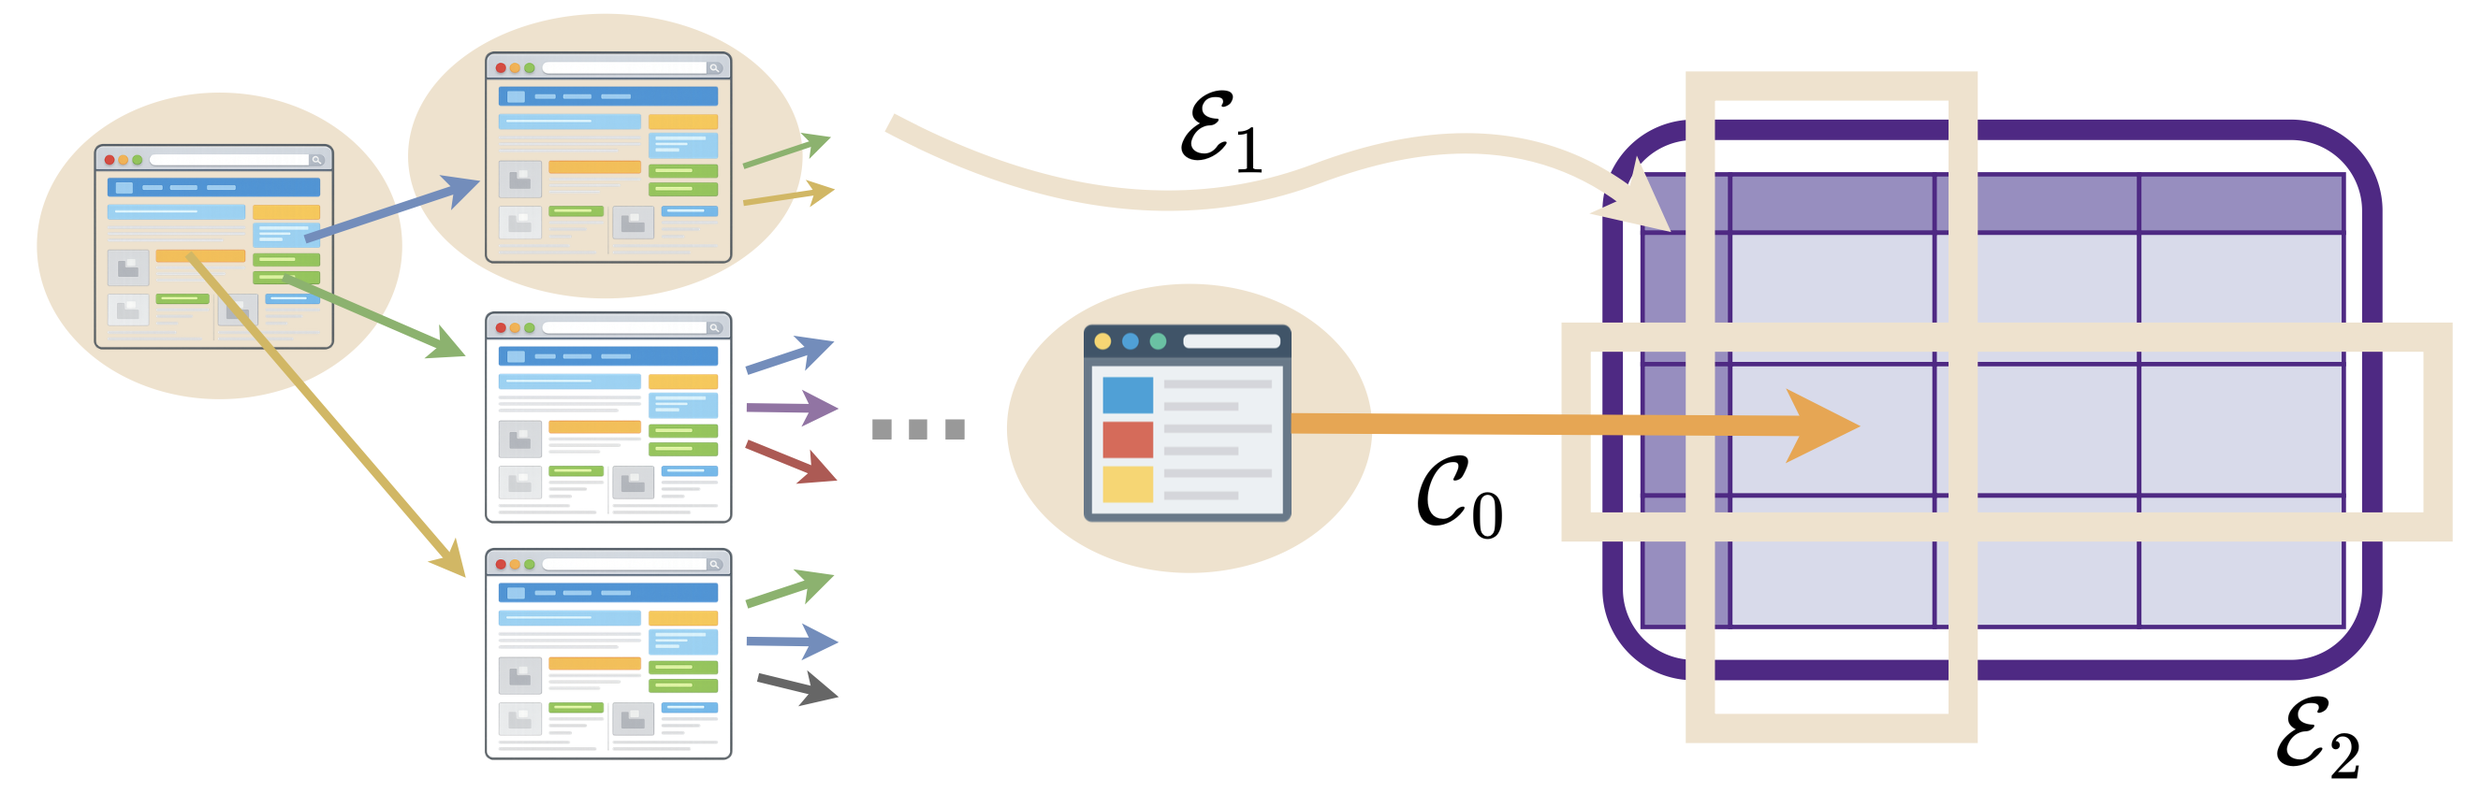
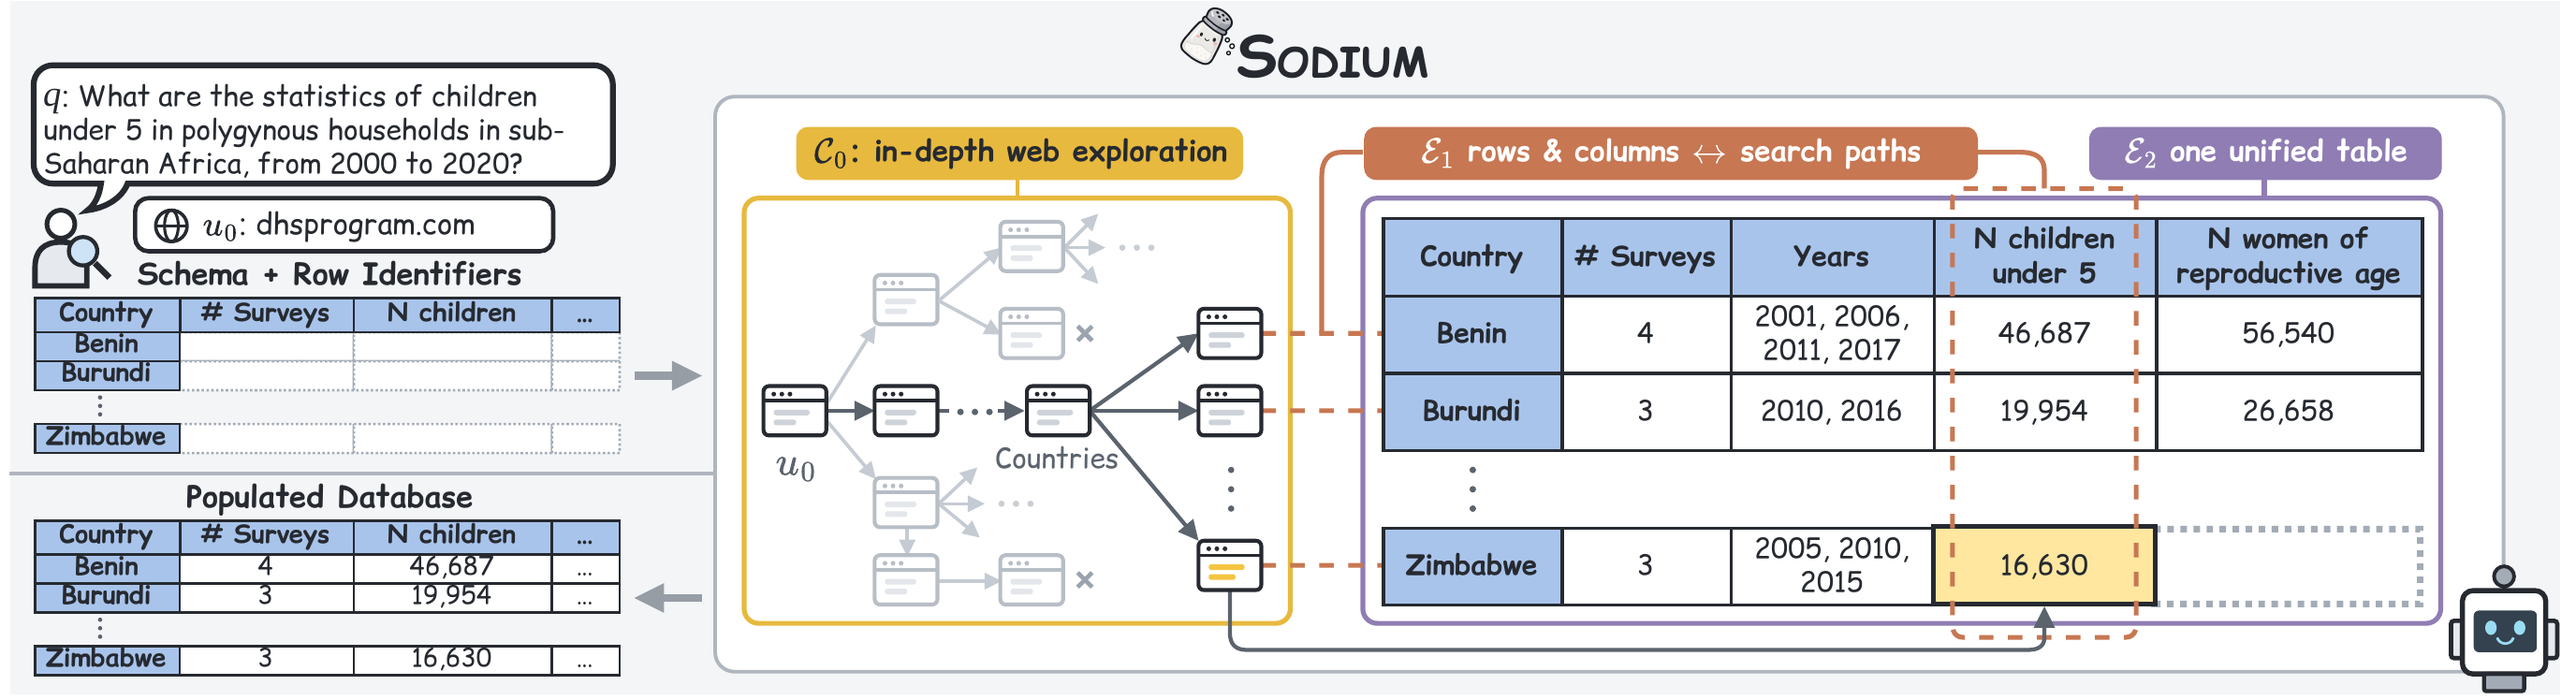
update assets

diff --git a/sodium-agent/web_explorer/page_explorer.py b/sodium-agent/web_explorer/page_explorer.py
@@ -4,13 +4,25 @@ from .online_file_explorer import inspect_file
 from .page_type import decide_sd, is_document_url
 
 
-def inspect_page(url, log_file, query, primary_key, primary_key_val, col, given_info, client):
+def inspect_page(url, static, log_file, query, primary_key, primary_key_val, col, given_info, client):
+    """Explore a single page.
+
+    ``static`` is the already-known page type when we are revisiting a cached
+    source (None means: classify it now with decide_sd).  Returns the page type
+    alongside the result so callers can cache it.
+    """
     if is_document_url(url):
-        return inspect_file(url, query, primary_key, primary_key_val, col, client, given_info, log_file), [], True, None, {}, True
-    url_type = decide_sd(url, query, primary_key, primary_key_val, col, given_info, client, log_file)
-    if url_type:
+        given_info = inspect_file(url, query, primary_key, primary_key_val, col, client, given_info, log_file)
+        return given_info, [], True, url, {}, True
+
+    if static is None:
+        # decide_sd returns (is_static, base_url); a bare tuple is always truthy,
+        # so it has to be unpacked or the dynamic branch is unreachable.
+        static, _base_url = decide_sd(url, query, primary_key, primary_key_val, col, given_info, client, log_file)
+
+    if static:
         given_info, next_level_links, proceed, source_url, path_record_level = inspect_static(url, query, primary_key, primary_key_val, col, client, given_info, log_file)
     else:
         given_info, next_level_links, proceed, source_url, path_record_level = inspect_dynamic(url, query, primary_key, primary_key_val, col, given_info, client, log_file)
-    
-    return given_info, next_level_links, proceed, source_url, path_record_level, url_type
+
+    return given_info, next_level_links, proceed, source_url, path_record_level, static

diff --git a/sodium-agent/agent.py b/sodium-agent/agent.py
@@ -43,7 +43,7 @@ def sodium_agent(query, schema, primary_key, primary_key_vals, output_folder, do
                 document_func_call(log_file, "upcache", None, None)
 
                 if upper_source_static is not None and upper_source and len(str(upper_source)) > 0:
-                    row, next_level_links, proceed, upper_source, path_record_level = inspect_page(upper_source, upper_source_static, log_file, query, primary_key, pk_val, col, row, client)
+                    row, next_level_links, proceed, upper_source, path_record_level, _ = inspect_page(upper_source, upper_source_static, log_file, query, primary_key, pk_val, col, row, client)
                     if col in row:
                         print(f"[Cache✓ up] ({pk_val}, {col}) -> using upper value")
                         source_row[col] = upper_source
@@ -60,7 +60,7 @@ def sodium_agent(query, schema, primary_key, primary_key_vals, output_folder, do
                 log_file = log_dir / "cache_manager.jsonl"
                 document_func_call(log_file, "leftcache", None, None)
                 if left_source_static is not None and left_source and len(str(left_source)) > 0:
-                    row, next_level_links, proceed, left_source, path_record_level = inspect_page(
+                    row, next_level_links, proceed, left_source, path_record_level, _ = inspect_page(
                         left_source, left_source_static, log_file, query, primary_key, pk_val, col, row, client
                     )
                     if col in row:

diff --git a/sodium-agent/web_explorer/web_explorer.py b/sodium-agent/web_explorer/web_explorer.py
@@ -3,6 +3,7 @@ from utils.lib import parse_result_from_content_list
 from utils.log import cell_summary, document_func_call
 
 from .page_explorer import inspect_page
+from utils.constant import AGENT_MODEL
 
 def atp_bfs(client, log_file, base_domain, query, primary_key, primary_key_val, col, given_info, k=10, max_depth=5):
     if not base_domain.startswith(("http://", "https://")):
@@ -30,7 +31,7 @@ def atp_bfs(client, log_file, base_domain, query, primary_key, primary_key_val, 
             if url in visited:
                 continue
             visited.add(url) 
-            given_info, next_level_links, proceed, source_url, path_record_level, static = inspect_page(url, log_file, query, primary_key, primary_key_val, col, given_info, client)
+            given_info, next_level_links, proceed, source_url, path_record_level, static = inspect_page(url, None, log_file, query, primary_key, primary_key_val, col, given_info, client)
             path_record.update(path_record_level)
 
             if col in given_info:
@@ -62,7 +63,7 @@ def augment_select_rank(candidate_urls, query, primary_key, primary_key_val, col
     )
 
     response = client.responses.create(
-        model="gpt-5",
+        model=AGENT_MODEL,
         reasoning={"effort": "high"},
         input=prompt,
     )

diff --git a/sodium-agent/web_explorer/dynamic_explorer.py b/sodium-agent/web_explorer/dynamic_explorer.py
@@ -10,6 +10,7 @@ from urllib.parse import urljoin
 from utils.prompt import DYNAMIC_SYSTEM_PROMPT
 from utils.log import document_func_call
 import utils.dynamic_explorer_tools as dx
+from utils.constant import AGENT_MODEL
 
 def inspect_dynamic(
     url: str,
@@ -42,7 +43,7 @@ def inspect_dynamic(
             observation=observation,
             virtual_accessibility=virtual_accessibility,
             history=history,
-            model="gpt-5",
+            model=AGENT_MODEL,
             log_file=log_file
         )
 
@@ -161,7 +162,7 @@ def determine_step(
         '''
     if observation["screenshot_data_url"] is not None:
         resp = client.responses.create(
-            model="gpt-5",
+            model=AGENT_MODEL,
             input=[
                 {"role": "system", "content": DYNAMIC_SYSTEM_PROMPT},
                 {
@@ -175,7 +176,7 @@ def determine_step(
         )
     else:
         resp = client.responses.create(
-            model="gpt-5",
+            model=AGENT_MODEL,
             input=[
                 {"role": "system", "content": DYNAMIC_SYSTEM_PROMPT},
                 {

diff --git a/sodium-agent/web_explorer/online_file_explorer.py b/sodium-agent/web_explorer/online_file_explorer.py
@@ -9,6 +9,7 @@ from utils.lib import (
     image_to_data_url
 )
 from utils.log import document_func_call
+from utils.constant import AGENT_MODEL
 
 
 def _guess_ext_from_url(url: str) -> str:
@@ -100,7 +101,7 @@ def inspect_file(
             )
 
             response = client.responses.create(
-                model="gpt-5",
+                model=AGENT_MODEL,
                 reasoning={"effort": "high"},
                 input=[
                     {
@@ -156,7 +157,7 @@ def inspect_file(
                 image_url = image_to_data_url(png_path)
 
                 response = client.responses.create(
-                    model="gpt-5",
+                    model=AGENT_MODEL,
                     reasoning={"effort": "high"},
                     input=[
                         {

diff --git a/sodium-agent/web_explorer/static_explorer.py b/sodium-agent/web_explorer/static_explorer.py
@@ -13,6 +13,7 @@ from playwright.sync_api import (
 from utils.prompt import INSPECT_PAGE
 from utils.lib import parse_result_from_content, _normalize_url_variants, url_to_hash, image_to_data_url
 from utils.log import document_func_call
+from utils.constant import AGENT_MODEL
 
 def inspect_static(url, query, primary_key, primary_key_val, col, client, given_info, log_file):
     proceed = True
@@ -38,7 +39,7 @@ def inspect_static(url, query, primary_key, primary_key_val, col, client, given_
         given_info=given_info
     )
     response = client.responses.create(
-        model="gpt-5",
+        model=AGENT_MODEL,
         reasoning={"effort": "high"},
         input=[
             {

diff --git a/sodium-agent/cache_manager.py b/sodium-agent/cache_manager.py
@@ -1,6 +1,7 @@
 from utils.prompt import PATH_SEARCH
 from utils.log import document_func_call
 from utils.lib import parse_result_from_content_list
+from utils.constant import AGENT_MODEL
 
 def discover_path(query, primary_key, primary_key_val, col, upper_primary_key_val, upper_col, search_path_up, left_primary_key_val, left_col, search_path_left, given_info, client, log_file, k=5):
     prompt = PATH_SEARCH.format(
@@ -19,7 +20,7 @@ def discover_path(query, primary_key, primary_key_val, col, upper_primary_key_va
     )
 
     response = client.responses.create(
-        model="gpt-5",
+        model=AGENT_MODEL,
         reasoning={"effort": "high"},
         input=prompt,
     )

diff --git a/sodium-agent/utils/log.py b/sodium-agent/utils/log.py
@@ -1,6 +1,6 @@
 import json
 from pathlib import Path
-from utils.constant import COST_DICT
+from utils.constant import COST_DICT, AGENT_MODEL
 
 def document_func_call(
     log_file,
@@ -19,8 +19,8 @@ def document_func_call(
     cost = None
     if input_tokens is not None and output_tokens is not None:
         cost = (
-            input_tokens * COST_DICT["gpt-5"]["cost_per_input_token"]
-            + output_tokens * COST_DICT["gpt-5"]["cost_per_output_token"]
+            input_tokens * COST_DICT[AGENT_MODEL]["cost_per_input_token"]
+            + output_tokens * COST_DICT[AGENT_MODEL]["cost_per_output_token"]
         )
 
     record = {

diff --git a/sodium-agent/web_explorer/page_type.py b/sodium-agent/web_explorer/page_type.py
@@ -4,6 +4,7 @@ from utils.lib import parse_result_from_content
 from utils.prompt import CHECK_SD
 from utils.log import document_func_call
 from utils.dynamic_explorer_tools import load_page
+from utils.constant import AGENT_MODEL
 
 def decide_sd(url, query, primary_key, primary_key_val, col, given_info, client, log_file):
     base_url = None
@@ -28,7 +29,7 @@ def decide_sd(url, query, primary_key, primary_key_val, col, given_info, client,
         col=col
     )
     response = client.responses.create(
-        model="gpt-5",
+        model=AGENT_MODEL,
         reasoning={"effort": "high"},
         input=[
             {

diff --git a/sodium-agent/utils/constant.py b/sodium-agent/utils/constant.py
@@ -67,5 +67,13 @@ COST_DICT = {
     "gpt-5": {
         "cost_per_input_token": 1.25e-06,
         "cost_per_output_token": 10e-06,
-    }
+    },
+    "gpt-5-2025-08-07": {
+        "cost_per_input_token": 1.25e-06,
+        "cost_per_output_token": 10e-06,
+    },
 }
+
+# Snapshot reported in the paper; pinned so runs stay reproducible as the
+# floating "gpt-5" alias moves.
+AGENT_MODEL = "gpt-5-2025-08-07"

diff --git a/sodium-agent/README.md b/sodium-agent/README.md
@@ -4,7 +4,7 @@ This folder contains the implementation of **SODIUM-Agent**.
 
 SODIUM-Agent consists of two sub-agents:
 
-### 🌐 Web Explorer (`./web_explorer.py`)
+### 🌐 Web Explorer (`./web_explorer/`)
 
 The web explorer is powered by the **ATP-BFS** algorithm, implemented in```./web_explorer/web_explorer.py```
 (specifically the `atp_bfs` function).
@@ -12,7 +12,7 @@ The web explorer is powered by the **ATP-BFS** algorithm, implemented in```./web
 ATP-BFS is executed through two components:
 
 - **Page Explorer** (`./web_explorer/page_explorer.py`)
-- **Link Processor** (`augment_select_rank` in `web_explorer.py`)
+- **Link Processor** (`augment_select_rank` in `./web_explorer/web_explorer.py`)
 
 The **page explorer** invokes different explorers depending on webpage types:
 

diff --git a/README.md b/README.md
@@ -1,4 +1,7 @@
-# 🌍 SODIUM: From Open Web Data to Queryable Databases
+<h1 align="center">
+  <img src="./assets/icon-sodium.png" height="38" valign="middle">
+  SODIUM: From Open Web Data to Queryable Databases
+</h1>
 
 This repository contains the reproduction artifact for:
 **SODIUM: From Open Web Data to Queryable Databases**.
